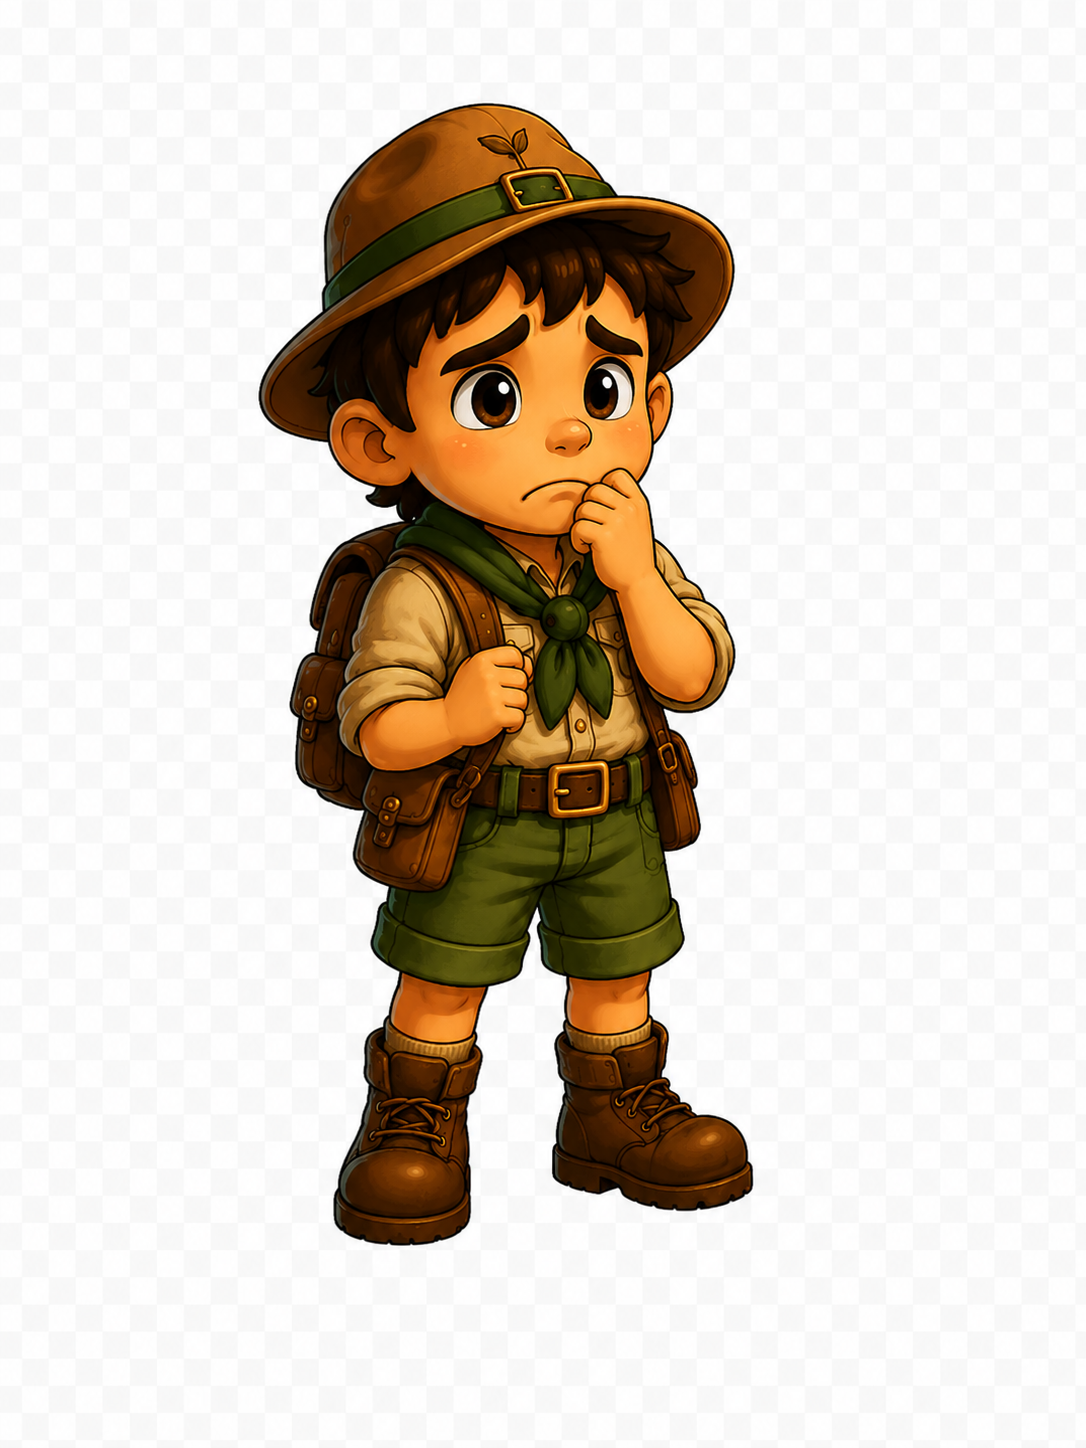
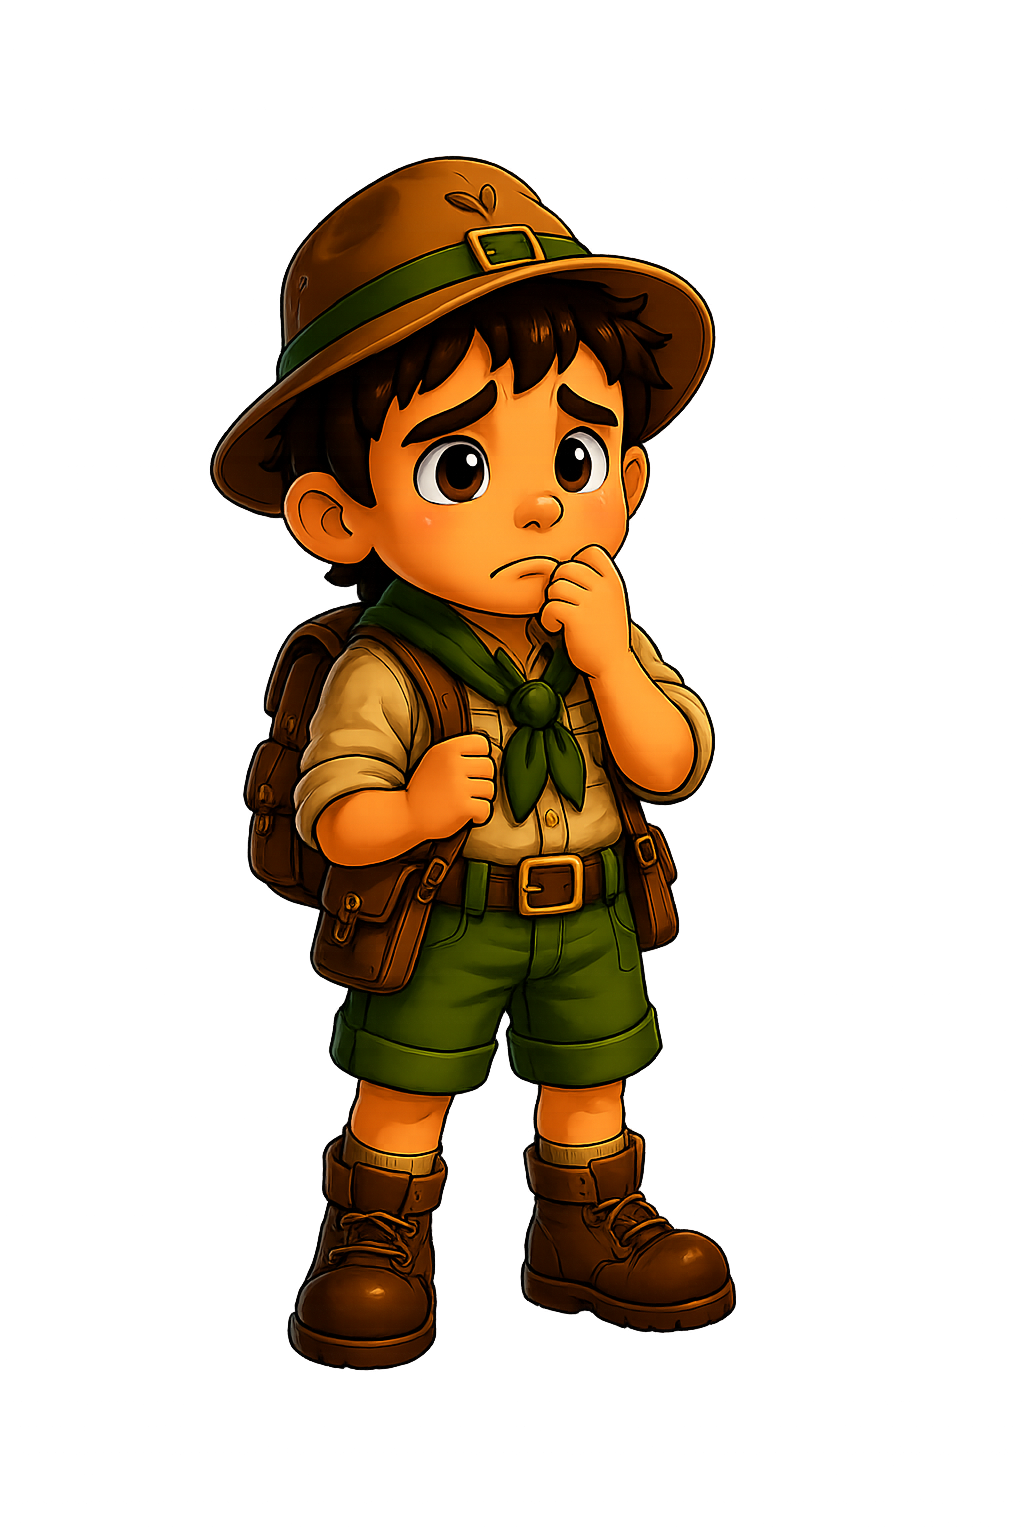
Agrega expresión nerviosa al explorador

Changed region(s): [[0.1875, 0.0622, 0.7188, 0.9012]]

diff --git a/js/app.js b/js/app.js
@@ -251,9 +251,6 @@ function elegirLetra(letra, boton) {
     actualizarEscenaAventura();
 
     personaje.textContent = intentos <= 2 ? "😨" : "😕";
-    if (intentos <= 2) {
-      cambiarPersonaje("preocupado");
-    }
     animarPersonajeTemporal("reaccion-error");
     mensajePersonaje.textContent = "Uy... esa letra no está.";
   }
@@ -767,7 +764,19 @@ function actualizarFondoBosque() {
   ];
 
   fondoEscenario.src = `assets/images/fondos/${fondosBosque[errores]}`;
+  actualizarExpresionBosque(errores);
   reproducirSonidoEventoBosque(errores);
+}
+
+function actualizarExpresionBosque(errores) {
+  if (errores === 2 || errores === 3) {
+    cambiarPersonaje("nervioso");
+    return;
+  }
+
+  if (errores >= 4) {
+    cambiarPersonaje("preocupado");
+  }
 }
 
 function precargarImagenesBosque() {

diff --git a/css/styles.css b/css/styles.css
@@ -177,6 +177,8 @@ button:disabled {
     bottom: -5px;
     left: 8%;
     width: clamp(170px, 22vw, 260px);
+    height: auto;
+    object-fit: contain;
     transition: 0.35s;
     animation: respirar 2.4s ease-in-out infinite;
 }